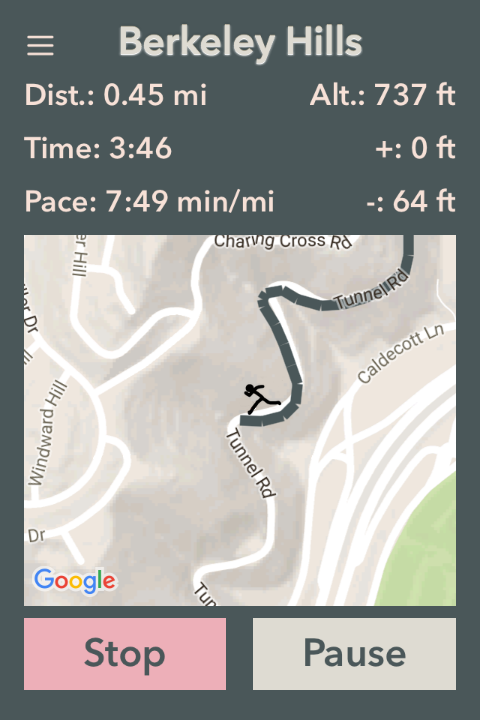
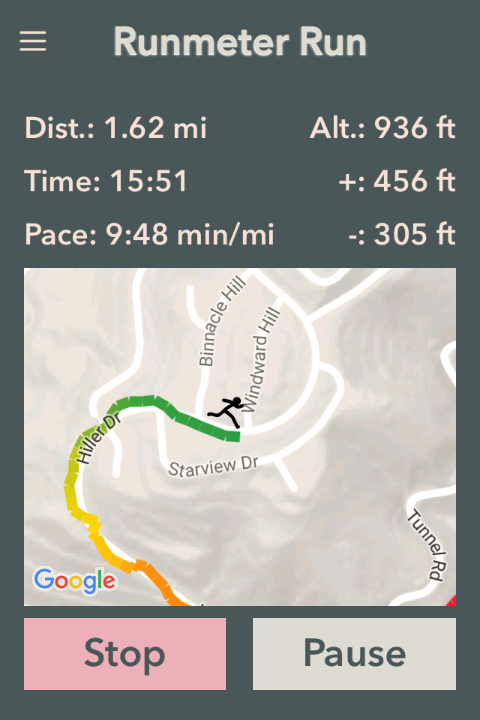
provide visual feedback on altitude changes during run

diff --git a/RaceRunner/RunModel.swift b/RaceRunner/RunModel.swift
@@ -13,8 +13,8 @@ import CoreData
 
 protocol RunDelegate {
     func showInitialCoordinate(coordinate: CLLocationCoordinate2D)
-    func plotToCoordinate(coordinate: CLLocationCoordinate2D)
-    func receiveProgress(distance: Double, time: Int, paceString: String, altitude: Double, altGainedString: String, altLostString: String)
+    func plotToCoordinate(coordinate: CLLocationCoordinate2D, color: UIColor)
+    func receiveProgress(totalDistance: Double, totalSeconds: Int, altitude: Double, altGained: Double, altLost: Double)
 }
 
 class RunModel: NSObject, CLLocationManagerDelegate {
@@ -26,19 +26,14 @@ class RunModel: NSObject, CLLocationManagerDelegate {
     static let altFudge: Double = 0.1
     static let noStreetNameDetected: String = "no street name detected"
     var totalDistance = 0.0
-    private var lastDistance = 0.0
     private var currentAltitude = 0.0
     private var oldSplitAltitude = 0.0
     private var currentSplitDistance = 0.0
     private var totalSeconds = 0
-    private var lastSeconds = 0
-    private var lastAltitude = 0.0
-    private var curAltGained = 0.0
-    private var curAltLost = 0.0
-    private var paceString = ""
-    private var altGainedString = ""
-    private var altLostString = ""
     private var splitsCompleted = 0
+    private var shouldReportSplits = false
+    private var lastDistance = 0.0
+    private var lastSeconds = 0
     private var reportEvery = SettingsManager.never
     private var temperature: Float = 0.0
     private var weather = ""
@@ -59,7 +54,7 @@ class RunModel: NSObject, CLLocationManagerDelegate {
     private var runToSimulate: Run!
     private var gpxFile: String!
     private var secondLength = 1.0
-    private var shouldReportSplits = false
+    private var sortedAltitudes: [Double] = []
     
     static let minDistance = 400.0
     private static let distanceTolerance: Double = 0.05
@@ -166,14 +161,15 @@ class RunModel: NSObject, CLLocationManagerDelegate {
                 let newLocation: CLLocation = location 
                 if abs(newLocation.horizontalAccuracy) < RunModel.minAccuracy {
                     if self.locations.count > 0 {
+                        let index = sortedAltitudes.insertionIndexOf(newLocation.altitude) { $0 < $1 }
+                        sortedAltitudes.insert(newLocation.altitude, atIndex: index)
                         totalDistance += newLocation.distanceFromLocation(self.locations.last!)
-                        runDelegate?.plotToCoordinate(newLocation.coordinate)
+                        runDelegate?.plotToCoordinate(newLocation.coordinate, color: UiHelpers.colorForValue(newLocation.altitude, sortedArray: sortedAltitudes, index: index))
                     }
                     else {
                         runDelegate?.showInitialCoordinate(newLocation.coordinate)
                     }
                     self.locations.append(newLocation)
-                    lastAltitude = newLocation.altitude
                 }
                 
                 if !didSetAutoNameAndFirstLoc {
@@ -226,11 +222,9 @@ class RunModel: NSObject, CLLocationManagerDelegate {
                     }
                     if newLocation.altitude > curAlt + RunModel.altFudge {
                         altGained += newLocation.altitude - curAlt
-                        curAltGained += newLocation.altitude - curAlt
                     }
                     if newLocation.altitude < curAlt - RunModel.altFudge {
                         altLost += curAlt - newLocation.altitude
-                        curAltLost += curAlt - newLocation.altitude
                     }
                 }
                 curAlt = newLocation.altitude
@@ -246,28 +240,21 @@ class RunModel: NSObject, CLLocationManagerDelegate {
             if SettingsManager.getPublishRun() && locations.count > 0 {
                 PubNubManager.pubishLocation(locations[locations.count - 1], distance: totalDistance, seconds: totalSeconds)
             }
+            runDelegate?.receiveProgress(totalDistance, totalSeconds: totalSeconds, altitude: curAlt, altGained: altGained, altLost: altLost)
             currentSplitDistance = totalDistance - lastDistance
             if shouldReportSplits && currentSplitDistance >= reportEvery {
                 splitsCompleted++
-                paceString = Converter.stringifyPace((totalDistance - lastDistance), seconds: (totalSeconds - lastSeconds))
-                altGainedString = Converter.stringifyAltitude(curAltGained)
-                curAltGained = 0.0
-                altLostString = Converter.stringifyAltitude(curAltLost)
-                curAltLost = 0.0
                 currentSplitDistance -= reportEvery
                 if (SettingsManager.getAudibleSplits()) {
                     Converter.announceProgress(totalSeconds, lastSeconds: lastSeconds, totalDistance: totalDistance, lastDistance: lastDistance, newAltitude: curAlt, oldAltitude: oldSplitAltitude)
+                    // TODO: Add a preference to optionally display current split pace. Invoke the delegate
+                    // with what it needs to know to display current split pace. If the preference is set,
+                    // have the delegate display current split pace.
                 }
                 lastDistance = totalDistance
                 lastSeconds = totalSeconds
                 oldSplitAltitude = curAlt
             }
-            if !shouldReportSplits || splitsCompleted == 0 {
-                paceString = Converter.stringifyPace(totalDistance, seconds: totalSeconds)
-                altGainedString = Converter.stringifyAltitude(altGained)
-                altLostString = Converter.stringifyAltitude(altLost)
-            }
-            runDelegate?.receiveProgress(totalDistance, time: totalSeconds, paceString: paceString, altitude: lastAltitude, altGainedString: altGainedString, altLostString: altLostString)
         }
     }
     
@@ -287,14 +274,10 @@ class RunModel: NSObject, CLLocationManagerDelegate {
         totalDistance = 0.0
         lastDistance = 0.0
         currentAltitude = 0.0
-        lastAltitude = 0.0
-        curAltGained = 0.0
-        curAltLost = 0.0
         currentSplitDistance = 0.0
         splitsCompleted = 0
         altGained = 0.0
         altLost = 0.0
-        paceString = ""
         locationManager.startUpdatingLocation()
         startTimer()
         if runToSimulate == nil && gpxFile == nil {
@@ -381,11 +364,9 @@ class RunModel: NSObject, CLLocationManagerDelegate {
     func stop() {
         timer.invalidate()
         locationManager.stopUpdatingLocation()
-        
         if runToSimulate == nil && gpxFile == nil {
             realRunInProgress = false
         }
-        
         if runToSimulate == nil && gpxFile == nil && totalDistance > RunModel.minDistance {
             var customName = ""
             let fetchRequest = NSFetchRequest()

diff --git a/RaceRunner/RunDetailsVC.swift b/RaceRunner/RunDetailsVC.swift
@@ -37,6 +37,10 @@ class RunDetailsVC: UIViewController, UIAlertViewDelegate, UITextFieldDelegate, 
     private var colorAltitudeSegments: [GMSPolyline] = []
     private var addedOverlays: Bool = false
     
+    private static let newRunNamePrompt = "Enter a new name for this run."
+    private static let newRunNameTitle = "Run Name"
+    private static let setRunNameButtonTitle = "Set"
+    
     func mapView(mapView:GMSMapView!,idleAtCameraPosition position:GMSCameraPosition!) {
         if !addedOverlays {
             addOverlays()
@@ -172,16 +176,6 @@ class RunDetailsVC: UIViewController, UIAlertViewDelegate, UITextFieldDelegate, 
                     }
                     var sortedValues = smoothValues
                     sortedValues.sortInPlace { $0 < $1 }
-                    let medianValue = sortedValues[run.locations.count / 2]
-                    let r_red: CGFloat = 1.0
-                    let r_green: CGFloat = 20.0 / 255.0
-                    let r_blue: CGFloat = 44.0 / 255.0
-                    let y_red: CGFloat = 1.0
-                    let y_green: CGFloat = 215.0 / 255.0
-                    let y_blue: CGFloat = 0.0
-                    let g_red: CGFloat = 0.0
-                    let g_green: CGFloat = 146.0 / 255.0
-                    let g_blue: CGFloat = 78.0 / 255.0
                     var colorSegments: [GMSPolyline] = []
                     let stride: Int // https://en.wikipedia.org/wiki/Stride_of_an_array
                     if map.camera.zoom < UiConstants.bigStrideZoomThreshhold {
@@ -197,31 +191,16 @@ class RunDetailsVC: UIViewController, UIAlertViewDelegate, UITextFieldDelegate, 
                         let secondLocCL = CLLocation(latitude: secondLoc.latitude.doubleValue, longitude: secondLoc.longitude.doubleValue)
                         var coords = [firstLocCL.coordinate, secondLocCL.coordinate]
                         let value = smoothValues[i - 1]
-                        var color: UIColor
                         var index = sortedValues.indexOf(value)
                         if (index == nil) {
                             index = 0
-                        }
-                        if value < medianValue {
-                            let ratio = CGFloat(index!) / (CGFloat(run.locations.count) / 2.0)
-                            let red = r_red + ratio * (y_red - r_red)
-                            let green = r_green + ratio * (y_green - r_green)
-                            let blue = r_blue + ratio * (y_blue - r_blue)
-                            color = UIColor(red: red, green: green, blue: blue, alpha: 1.0)
-                        }
-                        else {
-                            let ratio = (CGFloat(index!) - CGFloat(run.locations.count / 2)) / CGFloat(run.locations.count / 2)
-                            let red = y_red + ratio * (g_red - y_red)
-                            let green = y_green + ratio * (g_green - y_green)
-                            let blue = y_blue + ratio * (g_blue - y_blue)
-                            color = UIColor(red: red, green: green, blue: blue, alpha: 1.0)
                         }
                         let path = GMSMutablePath()
                         path.addCoordinate(coords[0])
                         path.addCoordinate(coords[1])
                         let segment = GMSPolyline()
                         segment.path = path
-                        segment.strokeColor = color
+                        segment.strokeColor = UiHelpers.colorForValue(value, sortedArray: sortedValues, index: index!)
                         segment.strokeWidth = UiConstants.polylineWidth
                         colorSegments.append(segment)
                     }
@@ -244,9 +223,8 @@ class RunDetailsVC: UIViewController, UIAlertViewDelegate, UITextFieldDelegate, 
     }
 
     @IBAction func setCustomName() {        
-        let alertController = UIAlertController(title: "Run Name", message: "Enter a new name for this run.", preferredStyle: UIAlertControllerStyle.Alert)
-        
-        let setAction = UIAlertAction(title: "Set", style: UIAlertActionStyle.Default, handler: { (action) in
+        let alertController = UIAlertController(title: RunDetailsVC.newRunNameTitle, message: RunDetailsVC.newRunNamePrompt, preferredStyle: UIAlertControllerStyle.Alert)
+        let setAction = UIAlertAction(title: RunDetailsVC.setRunNameButtonTitle, style: UIAlertActionStyle.Default, handler: { (action) in
             let textFields = alertController.textFields!
             self.route.text = "Name: \(textFields[0].text!)"
             self.run.customName = textFields[0].text!

diff --git a/RaceRunner/RunVC.swift b/RaceRunner/RunVC.swift
@@ -135,7 +135,7 @@ class RunVC: ChildVC, RunDelegate {
         pin.map = map
     }
     
-    func plotToCoordinate(coordinate: CLLocationCoordinate2D) {
+    func plotToCoordinate(coordinate: CLLocationCoordinate2D, color: UIColor) {
         if currentCoordinate != nil {
             if currentCoordinate.longitude > coordinate.longitude {
                 runnerIcons.direction = .West
@@ -152,7 +152,7 @@ class RunVC: ChildVC, RunDelegate {
             path.addCoordinate(coords[1])
             let polyline = GMSPolyline()
             polyline.path = path
-            polyline.strokeColor = UiConstants.darkColor
+            polyline.strokeColor = color
             polyline.strokeWidth = UiConstants.polylineWidth
             polyline.map = map
             pin.map = nil
@@ -166,15 +166,15 @@ class RunVC: ChildVC, RunDelegate {
         }
     }
     
-    func receiveProgress(distance: Double, time: Int, paceString: String, altitude: Double, altGainedString: String, altLostString: String) {
-        timeLabel.text = "Time: \(Converter.stringifySecondCount(time, useLongFormat: false))"
-        distanceLabel.text = "Dist.: \(Converter.stringifyDistance(distance))"
-        paceLabel.text = "Pace: " + paceString
+    func receiveProgress(totalDistance: Double, totalSeconds: Int, altitude: Double, altGained: Double, altLost: Double) {
+        timeLabel.text = "Time: \(Converter.stringifySecondCount(totalSeconds, useLongFormat: false))"
         altLabel.text = "Alt.: " + Converter.stringifyAltitude(altitude)
-        altGainedLabel.text = "+: " + altGainedString
-        altLostLabel.text = "-: " + altLostString
+        distanceLabel.text = "Dist.: \(Converter.stringifyDistance(totalDistance))"
+        paceLabel.text = "Pace: " + Converter.stringifyPace(totalDistance, seconds: totalSeconds)
+        altGainedLabel.text = "+: " + Converter.stringifyAltitude(altGained)
+        altLostLabel.text = "-: " + Converter.stringifyAltitude(altLost)
         let stopAfter = SettingsManager.getStopAfter()
-        if (stopAfter != SettingsManager.never) && (distance >= stopAfter) {
+        if (stopAfter != SettingsManager.never) && (totalDistance >= stopAfter) {
             stop()
         }
     }

diff --git a/RaceRunner/UiHelpers.swift b/RaceRunner/UiHelpers.swift
@@ -27,4 +27,31 @@ class UiHelpers {
     class func letterPressedText(plainText: String) -> NSAttributedString {
         return NSAttributedString(string: plainText, attributes: [NSTextEffectAttributeName: NSTextEffectLetterpressStyle])
     }
+    
+    class func colorForValue(value: Double, sortedArray: [Double], index: Int) -> UIColor {
+        let r_red: CGFloat = 1.0
+        let r_green: CGFloat = 20.0 / 255.0
+        let r_blue: CGFloat = 44.0 / 255.0
+        let y_red: CGFloat = 1.0
+        let y_green: CGFloat = 215.0 / 255.0
+        let y_blue: CGFloat = 0.0
+        let g_red: CGFloat = 0.0
+        let g_green: CGFloat = 146.0 / 255.0
+        let g_blue: CGFloat = 78.0 / 255.0
+        let medianValue = sortedArray[sortedArray.count / 2]
+        if value < medianValue {
+            let ratio = CGFloat(index) / (CGFloat(sortedArray.count) / 2.0)
+            let red = r_red + ratio * (y_red - r_red)
+            let green = r_green + ratio * (y_green - r_green)
+            let blue = r_blue + ratio * (y_blue - r_blue)
+            return UIColor(red: red, green: green, blue: blue, alpha: 1.0)
+        }
+        else {
+            let ratio = (CGFloat(index) - CGFloat(sortedArray.count / 2)) / CGFloat(sortedArray.count / 2)
+            let red = y_red + ratio * (g_red - y_red)
+            let green = y_green + ratio * (g_green - y_green)
+            let blue = y_blue + ratio * (g_blue - y_blue)
+            return UIColor(red: red, green: green, blue: blue, alpha: 1.0)
+        }
+    }
 }

diff --git a/RaceRunner/Converter.swift b/RaceRunner/Converter.swift
@@ -49,7 +49,10 @@ class Converter {
     
     class func announceProgress(totalSeconds: Int, lastSeconds: Int, totalDistance: Double, lastDistance: Double, newAltitude: Double, oldAltitude: Double) {
         let totalLongDistance = convertMetersToLongDistance(totalDistance)
-        let roundedDistance = NSString(format: "%.1f", totalLongDistance) as String
+        var roundedDistance = NSString(format: "%.2f", totalLongDistance) as String
+        if roundedDistance.characters.last! == "0" {
+            roundedDistance = roundedDistance.substringToIndex(roundedDistance.endIndex.predecessor())
+        }
         var progressString = "total distance \(roundedDistance) \(pluralizedCurrentLongUnit(totalLongDistance)), total time \(stringifySecondCount(totalSeconds, useLongFormat: true)), split pace"
         let distanceDelta = totalDistance - lastDistance
         let secondsDelta = totalSeconds - lastSeconds

diff --git a/RaceRunner/Array+insertionIndexOf.swift b/RaceRunner/Array+insertionIndexOf.swift
@@ -1,0 +1,25 @@
+//
+//  Array+insertionIndexOf.swift
+//  RaceRunner
+//
+//  Created by Joshua Adams on 12/10/15.
+//  Copyright © 2015 Josh Adams. All rights reserved.
+//
+
+extension Array {
+    func insertionIndexOf(elem: Element, isOrderedBefore: (Element, Element) -> Bool) -> Int {
+        var lo = 0
+        var hi = self.count - 1
+        while lo <= hi {
+            let mid = (lo + hi)/2
+            if isOrderedBefore(self[mid], elem) {
+                lo = mid + 1
+            } else if isOrderedBefore(elem, self[mid]) {
+                hi = mid - 1
+            } else {
+                return mid
+            }
+        }
+        return lo
+    }
+}
